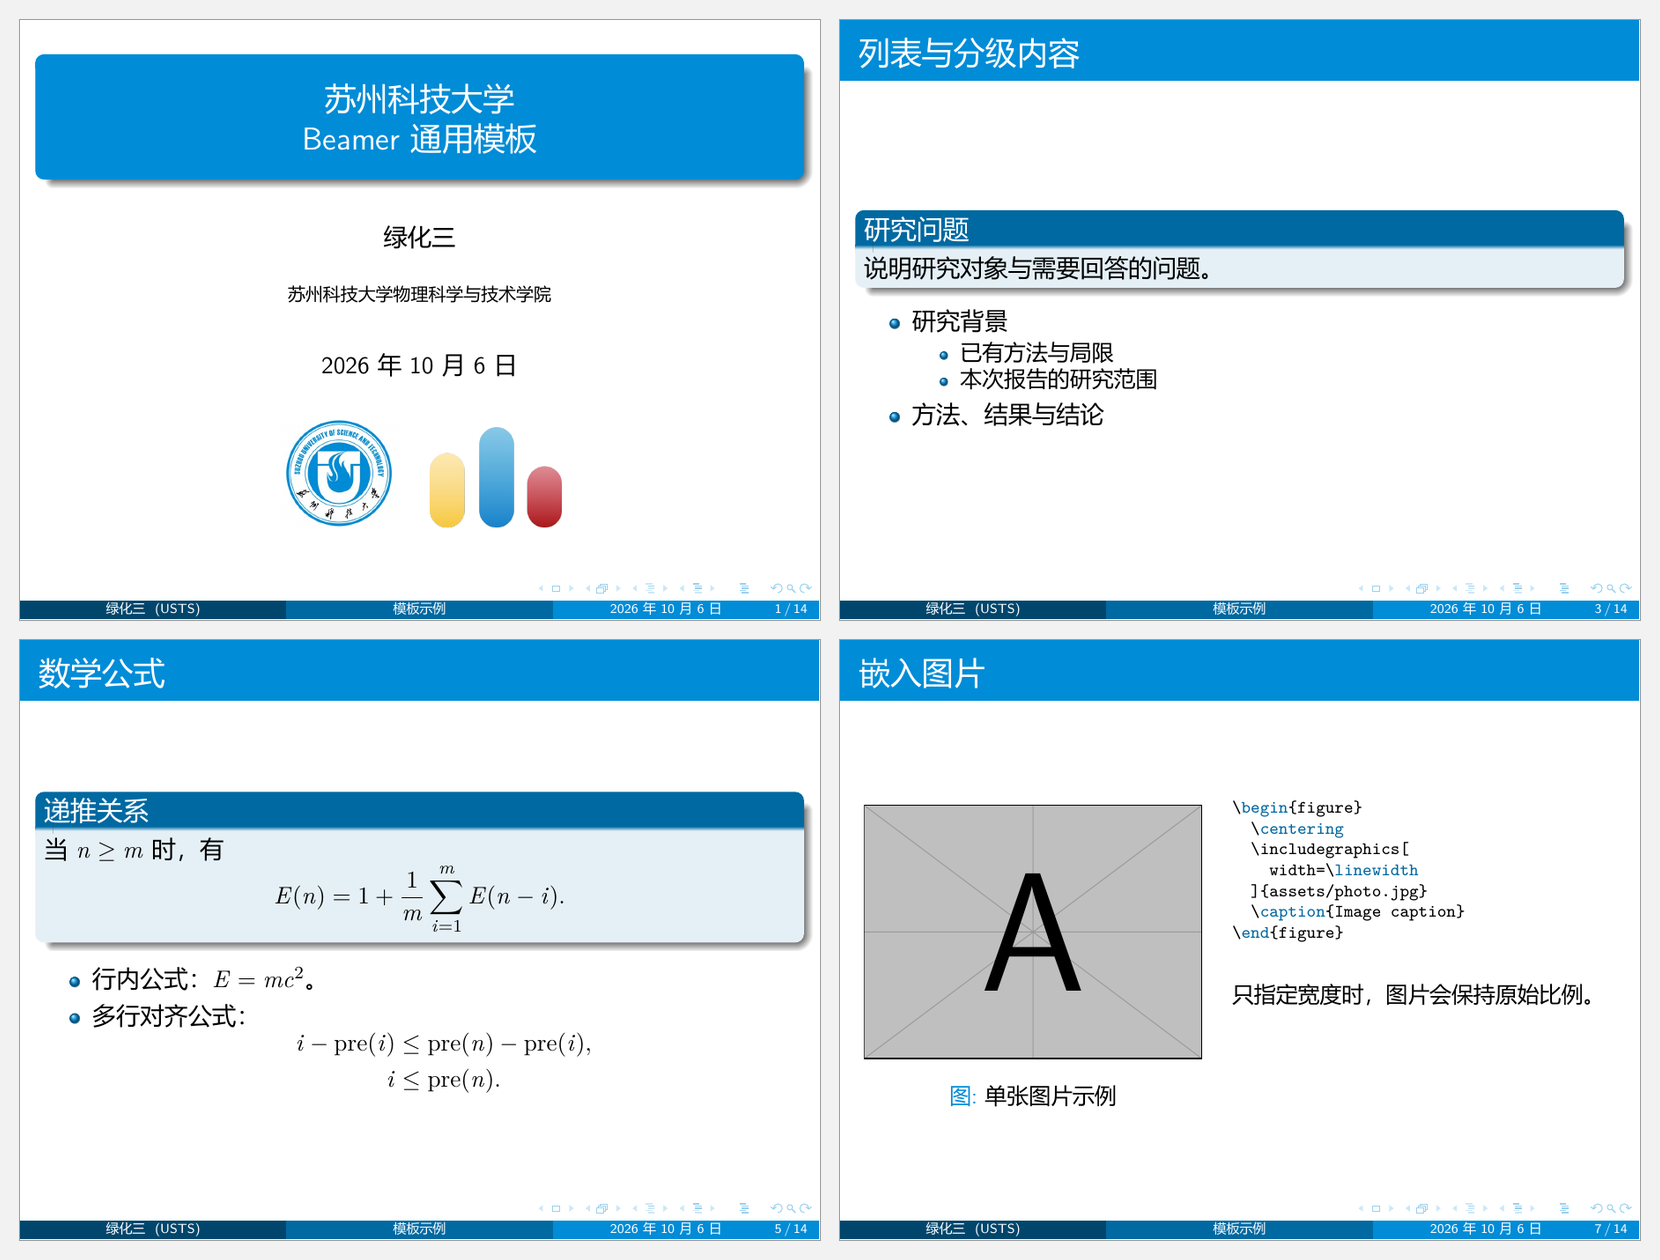
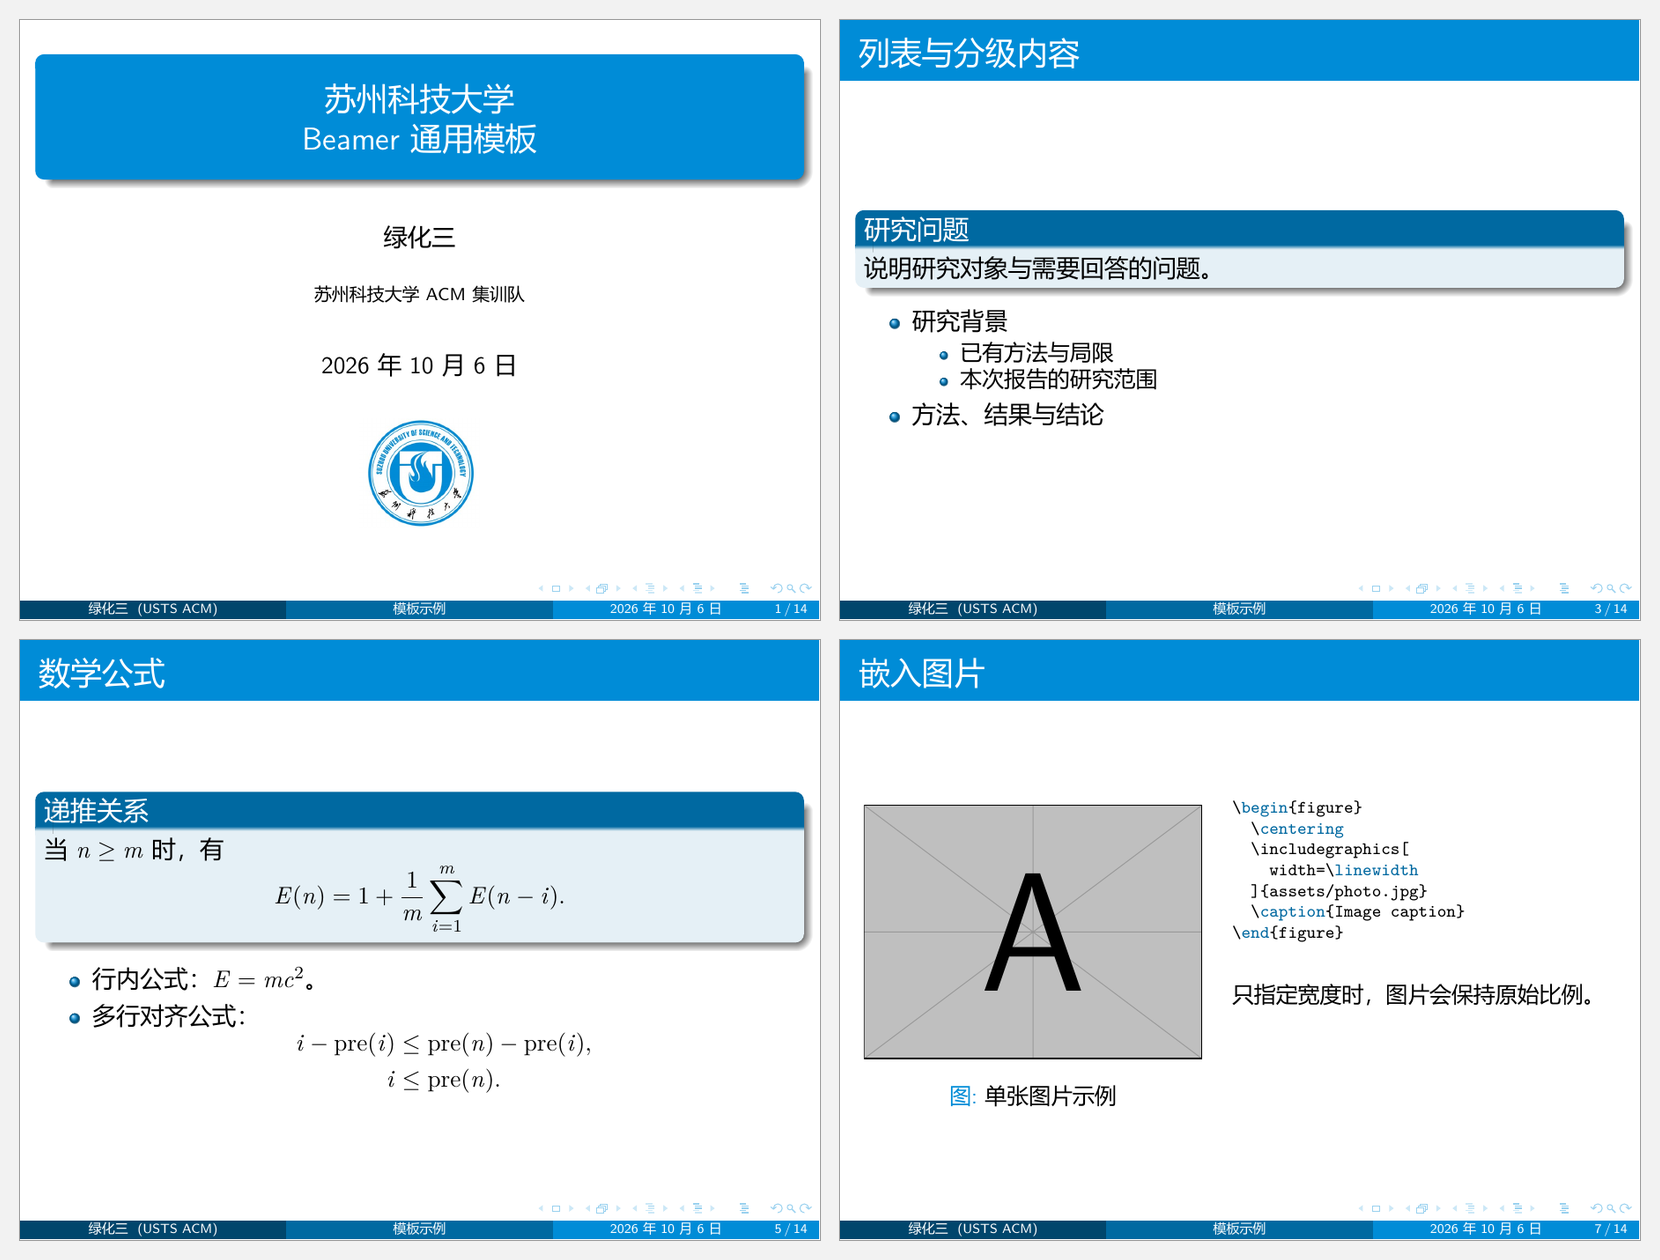
更新封面校徽与单位信息 (#6)
* Use a single university emblem and ACM team institute

* Remove parentheses from cover institute

diff --git a/tests/check_layout.py b/tests/check_layout.py
@@ -71,6 +71,10 @@ def check_fixture(pages, wide):
             )
             assert -0.5 <= x0 <= x1 <= width + 0.5, f"Page {number}: text outside width: {word.text}"
             assert -0.5 <= y0 <= y1 <= height + 0.5, f"Page {number}: text outside height: {word.text}"
+    cover = page_text(pages[0])
+    assert "苏州科技大学ACM集训队" in cover, "Cover institute is missing"
+    assert "（" not in cover and "）" not in cover, "Cover institute has parentheses"
+    assert "(USTSACM)" in page_text(pages[0], footer=True), "Short institute is missing"
     assert "手动换行第一行" in page_text(pages[3])
     assert "手动换行第二行" in page_text(pages[3])
     assert "自动换行标题开头" in page_text(pages[4])

diff --git a/example.tex b/example.tex
@@ -18,7 +18,7 @@
 
 \title[模板示例]{苏州科技大学\\Beamer 通用模板}
 \author[绿化三]{绿化三}
-\institute[USTS]{苏州科技大学物理科学与技术学院\\\medskip}
+\institute[USTS ACM]{苏州科技大学 ACM 集训队\\\medskip}
 \date{\today}
 
 \begin{document}
@@ -27,8 +27,7 @@
   \titlepage
   \begin{figure}[htbp]
     \begin{center}
-      \includegraphics[scale=0.18]{assets/usts-logo.jpg}$\ \ \ $
-      \includegraphics[scale=0.32]{assets/acm-logo.png}
+      \includegraphics[scale=0.18]{assets/usts-logo.jpg}
     \end{center}
   \end{figure}
   \vspace{25pt}

diff --git a/tests/regression.tex b/tests/regression.tex
@@ -24,7 +24,7 @@
 
 \title[排版测试]{苏州科技大学\\Beamer 排版测试}
 \author{绿化三}
-\institute[USTS]{苏州科技大学物理科学与技术学院\\\medskip}
+\institute[USTS ACM]{苏州科技大学 ACM 集训队\\\medskip}
 \date{2026-10-06}
 
 \begin{document}
@@ -33,8 +33,7 @@
   \titlepage
   \begin{figure}[htbp]
     \begin{center}
-      \includegraphics[scale=0.18]{assets/usts-logo.jpg}$\ \ \ $
-      \includegraphics[scale=0.32]{assets/acm-logo.png}
+      \includegraphics[scale=0.18]{assets/usts-logo.jpg}
     \end{center}
   \end{figure}
   \ifdefined\USTSWide

diff --git a/template.tex b/template.tex
@@ -7,7 +7,7 @@
 
 \title[报告简称]{苏州科技大学\\报告标题}
 \author[绿化三]{绿化三}
-\institute[USTS]{苏州科技大学物理科学与技术学院\\\medskip}
+\institute[USTS ACM]{苏州科技大学 ACM 集训队\\\medskip}
 \date{\today}
 
 \begin{document}
@@ -17,8 +17,7 @@
   \titlepage
   \begin{figure}[htbp]
     \begin{center}
-      \includegraphics[scale=0.18]{assets/usts-logo.jpg}$\ \ \ $
-      \includegraphics[scale=0.32]{assets/acm-logo.png}
+      \includegraphics[scale=0.18]{assets/usts-logo.jpg}
     \end{center}
   \end{figure}
   \vspace{25pt}

diff --git a/assets/README.md b/assets/README.md
@@ -1,8 +1,7 @@
 # Assets
 
 - `usts-logo.jpg`：苏州科技大学校徽，示例封面使用 `scale=0.18`。
-- `acm-logo.png`：ACM 集训队标识，示例封面使用 `scale=0.32`。
 
-制作课程或学术报告时，可以删除 ACM 标识对应的图片命令，或替换为学院提供的标识。更换素材时应保持图片比例，并遵守相应视觉标识规范。
+封面仅放置居中的校徽。更换素材时应保持图片比例，并遵守相应视觉标识规范。
 
-学校名称、校徽、团队标识等权利归各自权利人所有，不属于本项目 MIT License 的授权范围。
+学校名称、校徽等权利归各自权利人所有，不属于本项目 MIT License 的授权范围。
